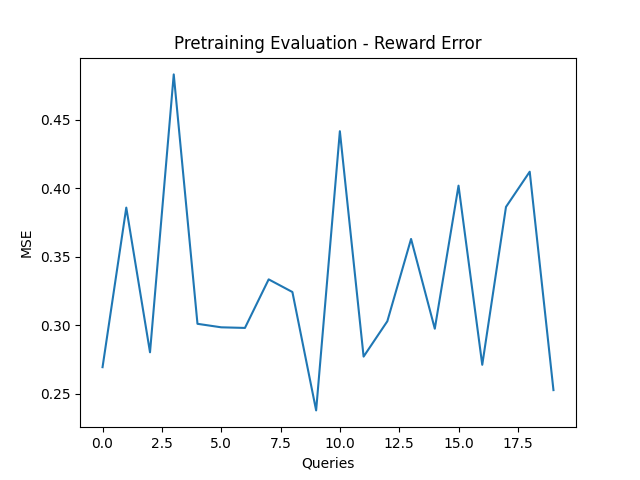
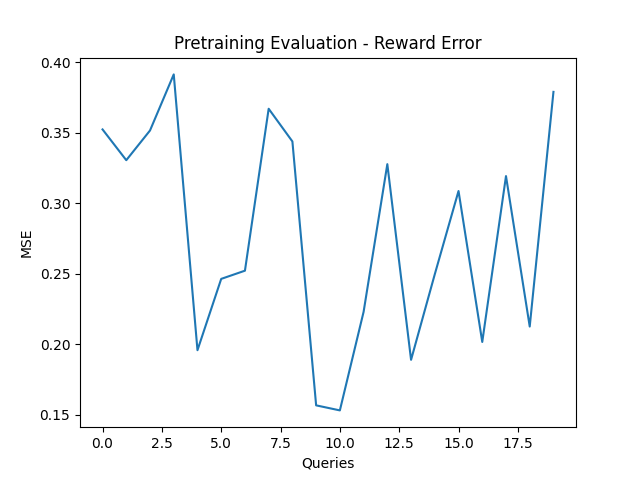
change learning methods

diff --git a/learner.py b/learner.py
@@ -188,78 +188,76 @@ class Learner:
 
             # train encoder
             for _ in range(self.args.encoder_spi):
-                
-                # initialize hidden and loss variables
-                hidden = self.encoder.init_hidden(batchsize=self.args.batchsize)
-                val_hidden = self.encoder.init_hidden(batchsize=self.args.batchsize)
-                loss = 0
-                val_loss = 0
 
-                # manually handle hidden inputs for gru for sequence
-                curr_queries = queries.unsqueeze(0)
-                curr_answers = answers.unsqueeze(0)
+                # initialize storage for entire iteration
+                query_seqs = torch.zeros((self.args.sequence_length, *(queries.shape)))
+                answer_seqs = torch.zeros((self.args.sequence_length, *(answers.shape))).to(torch.long)
+                val_query_seqs = torch.zeros_like(query_seqs)
+                val_answer_seqs = torch.zeros_like(answer_seqs).to(torch.long)
 
-                val_queries = val_queries.unsqueeze(0)
-                val_answers = val_answers.unsqueeze(0)
+                # set first query in sequences to the batch
+                query_seqs[0] = queries
+                answer_seqs[0] = answers
+                val_query_seqs[0] = val_queries
+                val_answer_seqs[0] = val_answers
 
-                for _ in range(self.args.sequence_length):
+                for t in range(self.args.sequence_length):
 
-                    ### TRAINING BATCH ###
+                    # initialize loss for the iteration
+                    loss = 0
+                    val_loss = 0
 
-                    # get beliefs from queries and answers
-                    beliefs, hidden = self.encoder(curr_queries, curr_answers, hidden)
+                    for i in range(t+1):
 
-                    # compute predicted response at timestep for each query
-                    inputs = response_dist(self.args, curr_queries, beliefs)
+                        # manually handle hidden inputs for gru for sequence
+                        curr_queries = query_seqs[i].unsqueeze(0)
+                        curr_answers = answer_seqs[i].unsqueeze(0)
+                        val_queries = val_query_seqs[i].unsqueeze(0)
+                        val_answers = val_answer_seqs[i].unsqueeze(0)
 
-                    # get inputs and targets for cross entropy loss
-                    inputs = inputs.view(-1, self.args.query_size)
-                    targets = curr_answers.view(-1)
+                        # initialize hidden variables
+                        hidden = self.encoder.init_hidden(batchsize=self.args.batchsize)
+                        val_hidden = self.encoder.init_hidden(batchsize=self.args.batchsize)
+                    
+                        # get beliefs from queries and answers
+                        beliefs, hidden = self.encoder(curr_queries, curr_answers, hidden)
+                        val_beliefs, val_hidden = self.encoder(val_queries, val_answers, val_hidden)
 
-                    # compute loss and add to overall loss for sequence
-                    loss += self.loss(inputs, targets)
+                        # compute predicted response at timestep for each query
+                        inputs = response_dist(self.args, curr_queries, beliefs)
+                        val_inputs = response_dist(self.args, val_queries, val_beliefs)
 
-                    # get next queries
-                    curr_queries = self.policy.run_policy(curr_queries, beliefs, self.train_dataset)
-                    # get next answers (in the case of an actual human, would be replaced with labeling step)
-                    answer_dist = response_dist(self.args, curr_queries, true_humans)
-                    curr_answers = sample_dist(self.args, answer_dist)
+                        # get inputs and targets for cross entropy loss
+                        inputs = inputs.view(-1, self.args.query_size)
+                        val_inputs = val_inputs.view(-1, self.args.query_size)
+                        targets = curr_answers.view(-1)
+                        val_targets = val_answers.view(-1)
 
-                    # reshape to have sequence dim of 1
-                    curr_queries = curr_queries.unsqueeze(0)
-                    curr_answers = curr_answers.unsqueeze(0)    
+                        # compute loss so far
+                        loss += self.loss(inputs, targets)
+                        val_loss += self.loss(val_inputs, val_targets)
 
-                    ### VALIDATION BATCH ###
+                    # optimize over the current sequence
+                    self.optimizer.zero_grad()
+                    loss.backward()       
+                    self.optimizer.step()  
 
-                    # get beliefs from queries and answers
-                    val_beliefs, val_hidden = self.encoder(val_queries, val_answers, val_hidden)
+                    if t+1 < self.args.sequence_length:
+                        # get next queries
+                        next_queries = self.policy.run_policy(query_seqs[t], beliefs, self.train_dataset)
+                        next_val_queries = self.policy.run_policy(val_query_seqs[t], val_beliefs, self.val_dataset)
 
-                    # compute predicted response at timestep for each query
-                    val_inputs = response_dist(self.args, val_queries, val_beliefs)
+                        # get next answers (in the case of an actual human, would be replaced with labeling step)
+                        next_answers = sample_dist(self.args, response_dist(self.args, curr_queries, true_humans))
+                        next_val_answers = sample_dist(self.args, response_dist(self.args, val_queries, val_humans))
 
-                    # get inputs and targets for cross entropy loss
-                    val_inputs = val_inputs.view(-1, self.args.query_size)
-                    val_targets = val_answers.view(-1)
+                        # add next queries to sequence
+                        query_seqs[t+1] = next_queries
+                        answer_seqs[t+1] = next_answers    
+                        val_query_seqs[t+1] = next_val_queries
+                        val_answer_seqs[t+1] = next_val_answers
 
-                    # compute loss and add to overall loss for sequence
-                    val_loss += self.loss(val_inputs, val_targets)
-
-                    # get next queries
-                    val_queries = self.policy.run_policy(val_queries, val_beliefs, self.val_dataset)
-                    # get next answers (in the case of an actual human, would be replaced with labeling step)
-                    val_answer_dist = response_dist(self.args, val_queries, val_humans)
-                    val_answers = sample_dist(self.args, val_answer_dist)
-
-                    # reshape to have sequence dim of 1
-                    val_queries = val_queries.unsqueeze(0)
-                    val_answers = val_answers.unsqueeze(0)
-
-                self.optimizer.zero_grad()
-                loss /= self.args.sequence_length
-                val_loss /= self.args.sequence_length
-                loss.backward()       
-                self.optimizer.step()  
-
+                # store losses
                 losses.append(loss.item())  
                 val_losses.append(val_loss.item())  
 
